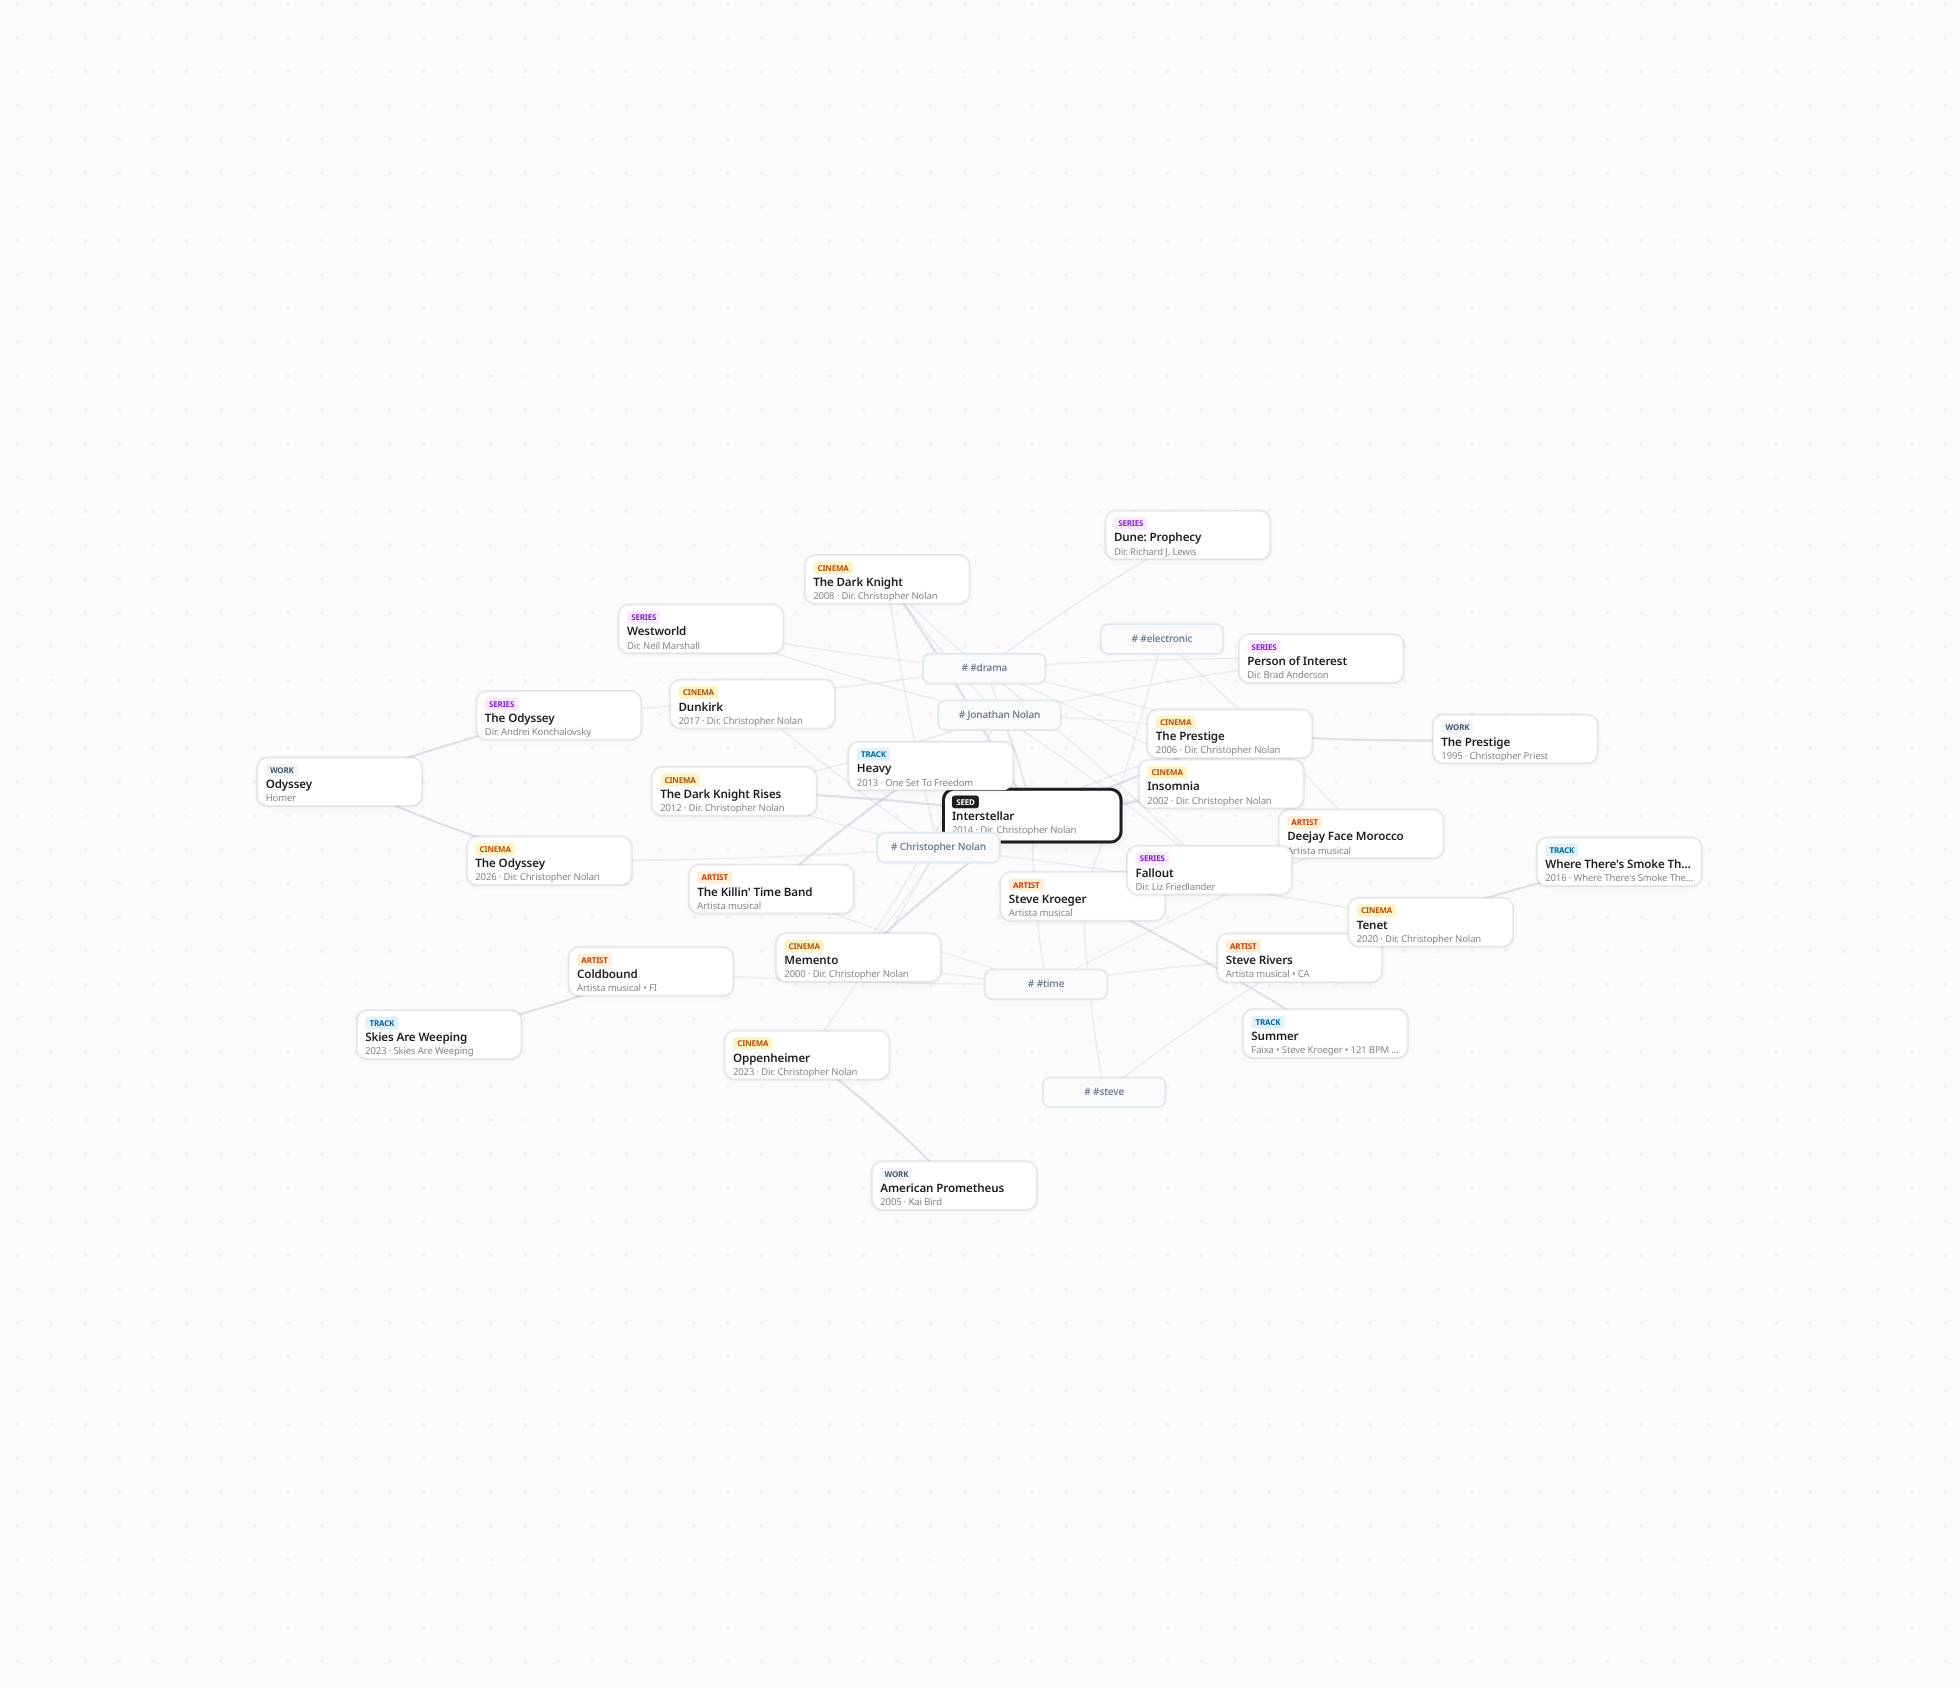
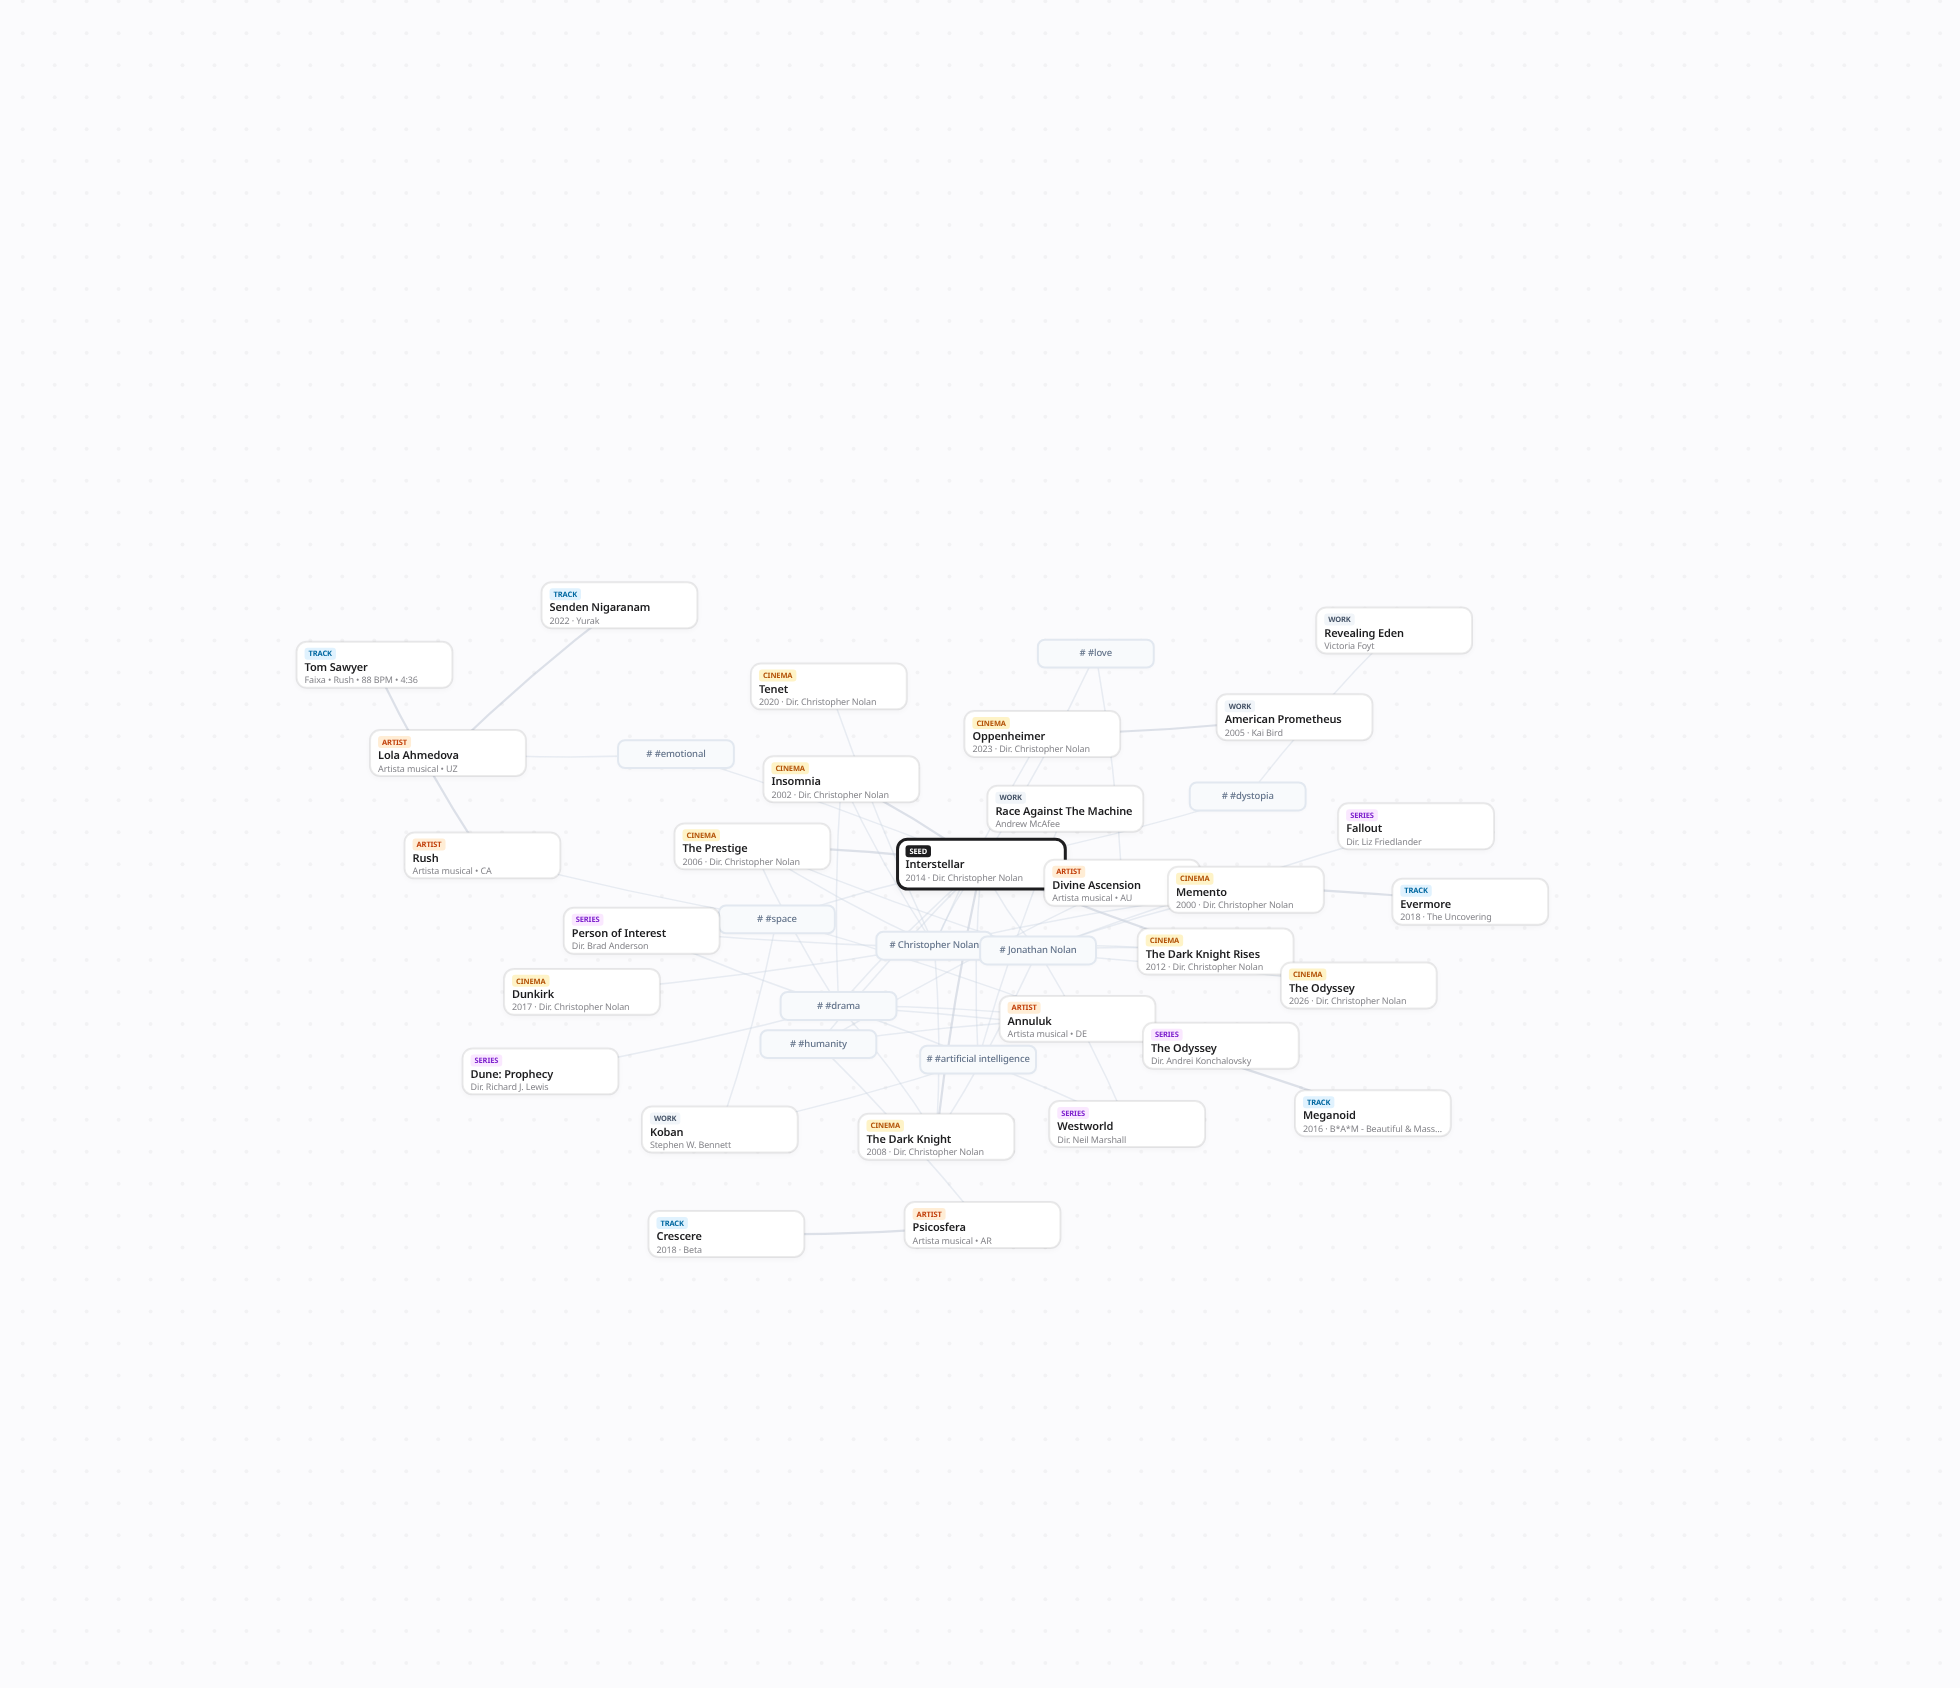
feat(engine): enforce cross-domain multi-tag confluence and regenerate showcase ticket

diff --git a/crates/engine/src/recommendation/extractors/books.rs b/crates/engine/src/recommendation/extractors/books.rs
@@ -1,9 +1,17 @@
 //! Books domain recommendation extractor.
 
 use super::super::context::{is_steam_noise_tag, RecContext};
-use crate::models::{is_tag_relation, parse_node_key, GraphLinkPayload, GraphNodePayload};
+use crate::models::{is_tag_relation, parse_node_key, BookMeta, GraphLinkPayload, GraphNodePayload};
 use crate::ppr::top_k_from_scores;
 use serde_json::{json, Value};
+
+struct CandidateBook<'a> {
+    nkey: String,
+    score: f32,
+    book: &'a BookMeta,
+    best_book_bridge: Option<(String, String, String, f32)>,
+    explanation: String,
+}
 
 pub fn extract_books(
     ctx: &RecContext,
@@ -17,21 +25,21 @@ pub fn extract_books(
         return;
     }
 
+    let has_book_seeds = ctx.active_seed_set.iter().any(|s| s.starts_with("book:"));
+    let pool_size = (book_quota * 40).max(200);
     let top_books = top_k_from_scores(
         &ctx.state.graph,
         ctx.p,
         ctx.exclude_ids,
         "book:",
-        Some(book_quota + 2),
+        Some(pool_size),
     );
-    let mut book_recs_added = 0usize;
+
+    let mut candidate_books: Vec<CandidateBook> = Vec::new();
 
     for item in top_books {
-        if item.score < ctx.min_rec_score {
+        if item.score < ctx.min_rec_score * 0.1 {
             continue;
-        }
-        if book_recs_added >= book_quota || results.len() >= limit {
-            break;
         }
         let nkey = &item.node_key;
         if ctx.seed_set.contains(nkey) {
@@ -48,6 +56,7 @@ pub fn extract_books(
         let mut found_author: Option<String> = None;
         let mut shared_book_tags: Vec<String> = Vec::new();
         let mut best_book_bridge: Option<(String, String, String, f32)> = None;
+        let mut has_adaptation = false;
 
         for e in ctx.state.graph.out_edges_by_key(nkey) {
             if let Some((tpfx, tid)) = parse_node_key(e.target_key) {
@@ -55,6 +64,7 @@ pub fn extract_books(
                     && (e.relation_type == "adapted_as" || e.relation_type == "based_on")
                     && ctx.active_seed_set.contains(e.target_key)
                 {
+                    has_adaptation = true;
                     let title = if tpfx == "movie" {
                         ctx.state.catalog.movies.get(&tid).map(|m| m.title.clone())
                     } else {
@@ -87,7 +97,7 @@ pub fn extract_books(
                 } else if tpfx == "keyword"
                     && is_tag_relation(e.relation_type)
                     && ctx.seed_tag_counts.contains_key(&tid)
-                    && shared_book_tags.len() < 3
+                    && shared_book_tags.len() < 4
                 {
                     if let Some(kname) = ctx.state.catalog.keywords.get(&tid) {
                         let tfmt = format!("#{}", kname);
@@ -107,7 +117,7 @@ pub fn extract_books(
             }
         }
 
-        if let Some(aname) = found_author {
+        if let Some(ref aname) = found_author {
             book_explanation.push(if ctx.is_pt {
                 format!("Mesma autoria ({})", aname)
             } else {
@@ -134,7 +144,50 @@ pub fn extract_books(
             book_explanation.join(" • ")
         };
 
-        let year_str = b
+        let shared_tag_count = shared_book_tags.len();
+        let mut boost = 1.0f32;
+        if has_adaptation {
+            boost *= 3.5;
+        }
+        if found_author.is_some() {
+            boost *= 2.5;
+        }
+        if !has_book_seeds {
+            if shared_tag_count > 0 {
+                boost *= 1.0 + (shared_tag_count as f32).powi(2) * 3.0;
+            } else if !has_adaptation && found_author.is_none() {
+                // Dampen indirect multi-hop gravity without thematic tags
+                boost *= 0.15;
+            }
+        } else if shared_tag_count > 0 {
+            boost *= 1.0 + (shared_tag_count as f32) * 0.5;
+        }
+
+        let boosted_score = item.score * boost;
+
+        candidate_books.push(CandidateBook {
+            nkey: nkey.clone(),
+            score: boosted_score,
+            book: b,
+            best_book_bridge,
+            explanation: full_book_reason,
+        });
+    }
+
+    candidate_books.sort_by(|a, b| {
+        b.score
+            .partial_cmp(&a.score)
+            .unwrap_or(std::cmp::Ordering::Equal)
+    });
+
+    let mut book_recs_added = 0usize;
+    for cand in candidate_books {
+        if book_recs_added >= book_quota || results.len() >= limit {
+            break;
+        }
+
+        let year_str = cand
+            .book
             .first_publish_year
             .map(|y| y.to_string())
             .unwrap_or_else(|| "N/A".to_string());
@@ -145,16 +198,16 @@ pub fn extract_books(
         };
 
         results.push(json!({
-            "id": nkey,
-            "title": b.title,
+            "id": cand.nkey,
+            "title": cand.book.title,
             "type": "book",
             "subtitle": book_subtitle,
-            "score": ((item.score as f64) * 1000.0 * 100.0).round() / 100.0,
-            "reason": full_book_reason,
+            "score": ((cand.score as f64) * 1000.0 * 100.0).round() / 100.0,
+            "reason": cand.explanation,
         }));
         graph_nodes.push(GraphNodePayload {
-            id: nkey.clone(),
-            label: b.title.clone(),
+            id: cand.nkey.clone(),
+            label: cand.book.title.clone(),
             node_type: "book".to_string(),
             val: 12.0,
             tags: Vec::new(),
@@ -162,7 +215,7 @@ pub fn extract_books(
             metadata: None,
         });
 
-        if let Some((b_key, b_label, b_type, b_weight)) = best_book_bridge {
+        if let Some((b_key, b_label, b_type, b_weight)) = cand.best_book_bridge {
             if !graph_nodes.iter().any(|n| n.id == b_key) {
                 graph_nodes.push(GraphNodePayload {
                     id: b_key.clone(),
@@ -175,7 +228,7 @@ pub fn extract_books(
                 });
             }
             graph_links.push(GraphLinkPayload {
-                source: nkey.clone(),
+                source: cand.nkey.clone(),
                 target: b_key,
                 label: if ctx.is_pt {
                     "conectado_a".to_string()
@@ -199,19 +252,19 @@ pub fn extract_books(
                     && ctx
                         .state
                         .graph
-                        .out_edges_by_key(nkey)
+                        .out_edges_by_key(&cand.nkey)
                         .iter()
                         .any(|ne| ne.target_key == e.target_key)
             });
             if shares_author
                 && !graph_links.iter().any(|l| {
-                    (l.source == *s_bkey && l.target == *nkey)
-                        || (l.source == *nkey && l.target == *s_bkey)
+                    (l.source == *s_bkey && l.target == cand.nkey)
+                        || (l.source == cand.nkey && l.target == *s_bkey)
                 })
             {
                 graph_links.push(GraphLinkPayload {
                     source: s_bkey.clone(),
-                    target: nkey.clone(),
+                    target: cand.nkey.clone(),
                     label: if ctx.is_pt {
                         "mesmo_autor".to_string()
                     } else {

diff --git a/crates/engine/src/recommendation/extractors/music.rs b/crates/engine/src/recommendation/extractors/music.rs
@@ -267,6 +267,28 @@ pub fn extract_music(
             continue;
         }
 
+        // Confluence requirement for cross-domain music recommendations:
+        // When jumping from non-music domains (movies, games, books, series) into music,
+        // a candidate artist MUST have confluence (at least 2 shared thematic tags,
+        // or a direct soundtrack/OST bridge). A single isolated tag (e.g. #time) is lexical noise.
+        let shared_tag_count = shared_tags.len();
+        if !has_music_seeds && !is_vgm_composer && connected_seeds.is_empty() {
+            if shared_tag_count < 2 {
+                continue;
+            }
+            let has_tracks: bool = ctx
+                .conn
+                .query_row(
+                    "SELECT 1 FROM music_tracks WHERE artist_id = ? LIMIT 1",
+                    params![nid],
+                    |_| Ok(true),
+                )
+                .unwrap_or(false);
+            if !has_tracks {
+                continue;
+            }
+        }
+
         seen_artist_names.insert(aname_norm);
 
         // Explanation assembly
@@ -390,6 +412,13 @@ pub fn extract_music(
             let deg = seed_degrees.get(s_key).copied().unwrap_or(300);
             let deg_factor = ((deg as f32) / 300.0).sqrt().clamp(1.0, 2.3);
             boost *= deg_factor;
+        }
+
+        // Multi-tag thematic confluence boost
+        if !has_music_seeds && !is_vgm_composer {
+            boost *= 1.0 + (shared_tag_count as f32).powi(2) * 3.0;
+        } else if shared_tag_count > 0 {
+            boost *= 1.0 + (shared_tag_count as f32) * 0.4;
         }
 
         // Direct high-confidence peer boost (e.g. Kanye <-> Jay-Z has weight 0.74)
